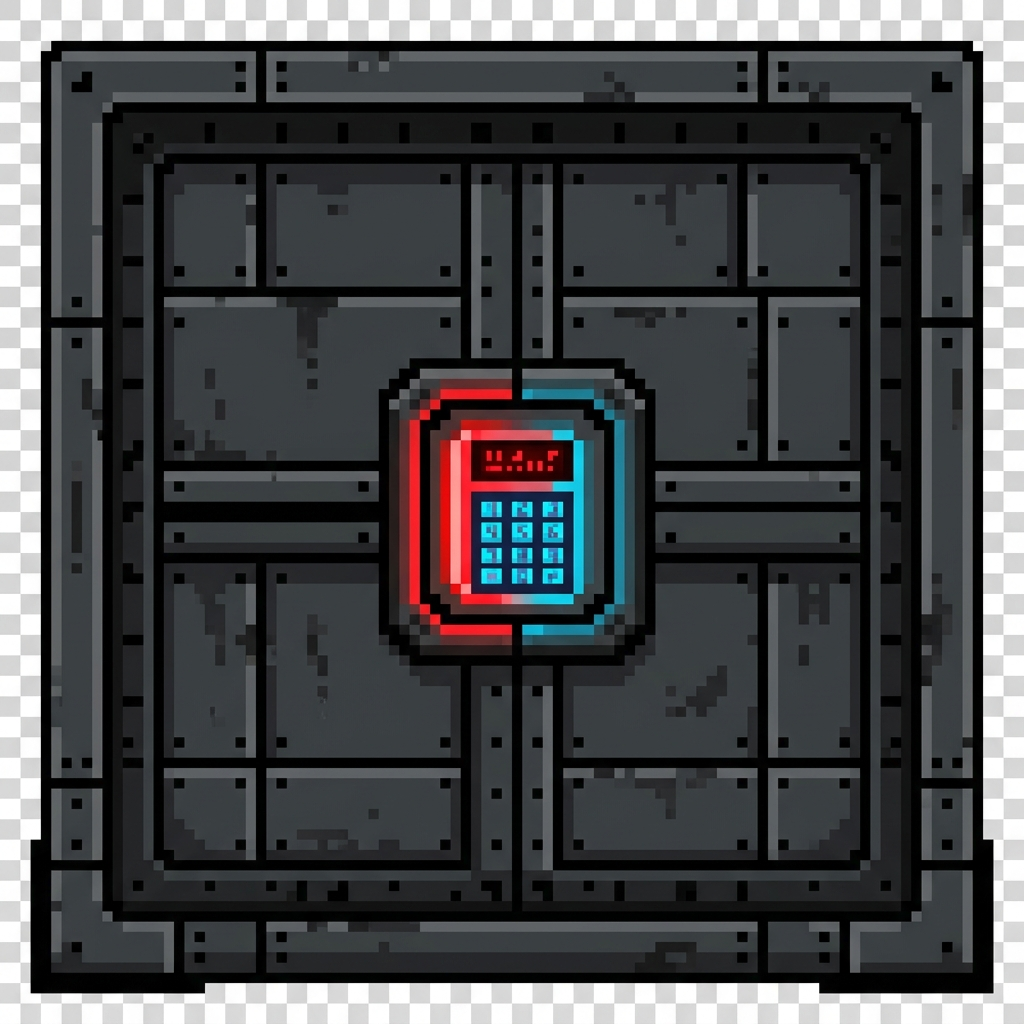
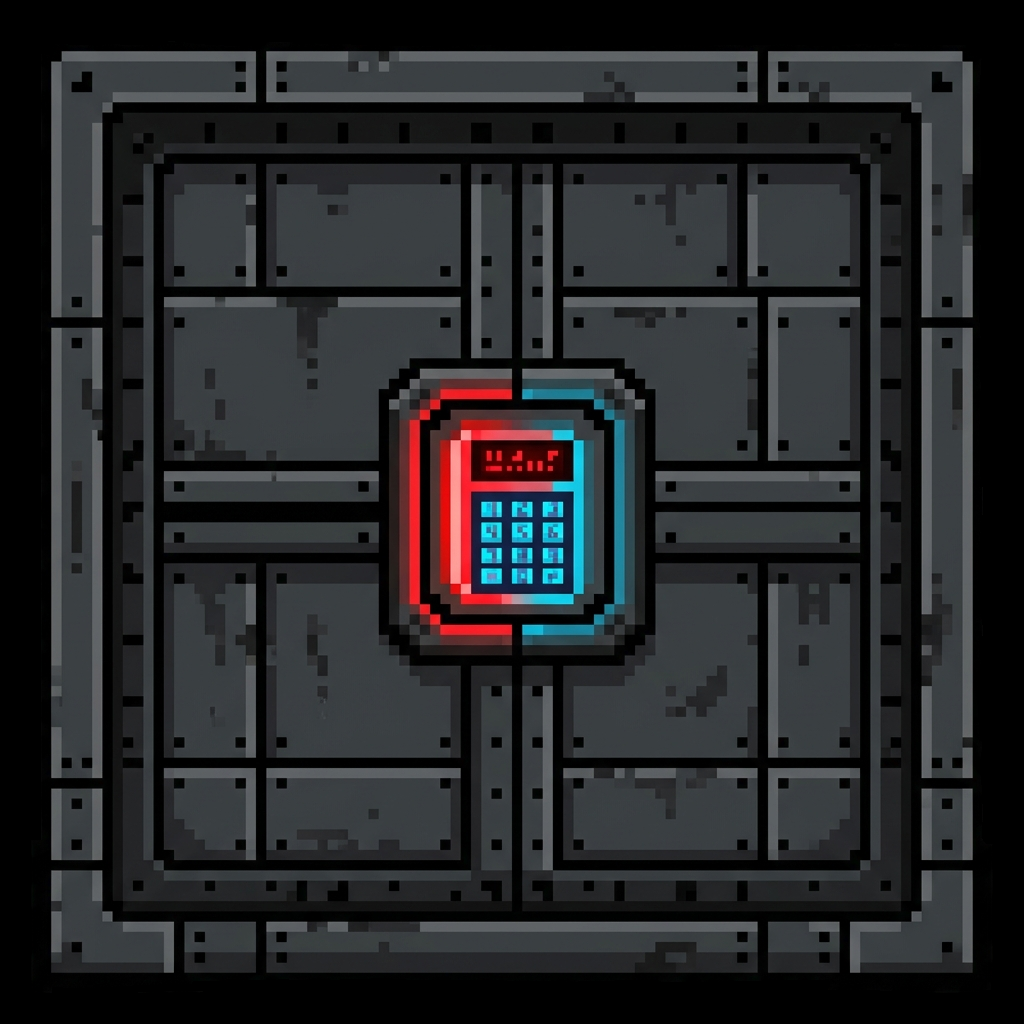
lvl3 changes

Changed region(s): [[0.0, 0.0, 1.0, 1.0]]

diff --git a/Assets/Levels/level3.py b/Assets/Levels/level3.py
@@ -12,21 +12,21 @@ def get_level_data():
         'waves': [
             {
                 # Wave 1
-                'count': 10,
+                'count': 0, # Privremeno isključeno zbog testiranja tekstura
                 'types': [KlonoviNPC],
                 'weights': [100],
                 'fixed_positions': []
             },
             {
                 # Wave 2
-                'count': 12,
+                'count': 0,
                 'types': [KlonoviNPC, JazavacNPC],
                 'weights': [70, 30],
                 'fixed_positions': []
             },
             {
                 # Wave 3
-                'count': 8,
+                'count': 0,
                 'types': [JazavacNPC],
                 'weights': [100],
                 'fixed_positions': []

diff --git a/Assets/Levels/level_manager.py b/Assets/Levels/level_manager.py
@@ -10,7 +10,7 @@ from Assets.npcs.dialogue_npc import create_dialogue_npcs
 class LevelManager:
     def __init__(self, game):
         self.game = game
-        self.current_level = 2
+        self.current_level = 3
         self.level_data = {}
         self.max_level = 0 #deprecated trebalo bi biti automatic
         self.current_weapon_type = 'pistol'

diff --git a/Assets/settings.py b/Assets/settings.py
@@ -45,7 +45,7 @@ FLOOR_COLOR = (30, 30, 30)
 FLOOR_COLORS = {
     1: (30, 30, 30), #level 1 dark space match
     2: (30, 30, 30),  # Level 1: Dark gray
-    3: (216, 217, 217),  # Level 2: White
+    3: (20, 22, 25),  # Level 2: Tamno siva usklađena s novom teksturom zida
     4: (30, 30, 30),  # Level 3: Dark gray (same as default)
     5: (30, 30, 30),  # Level 3: Dark gray (same as default)
 }